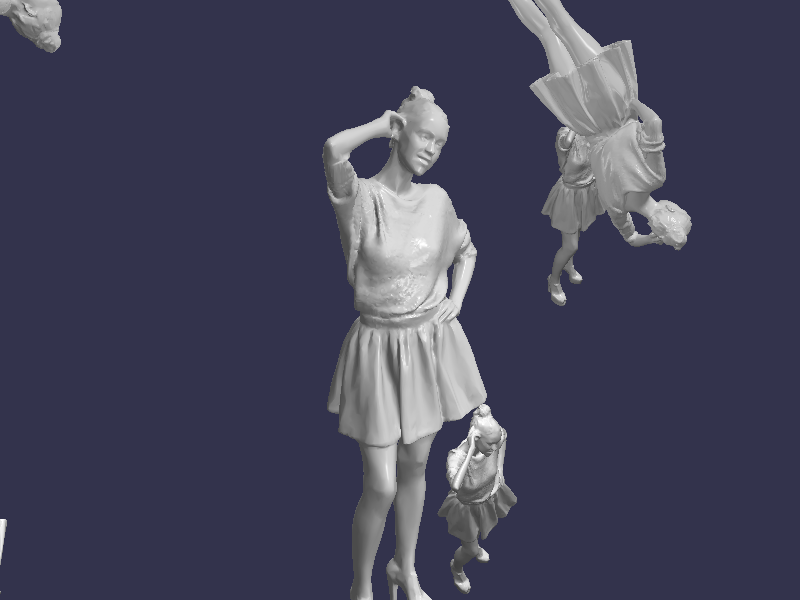
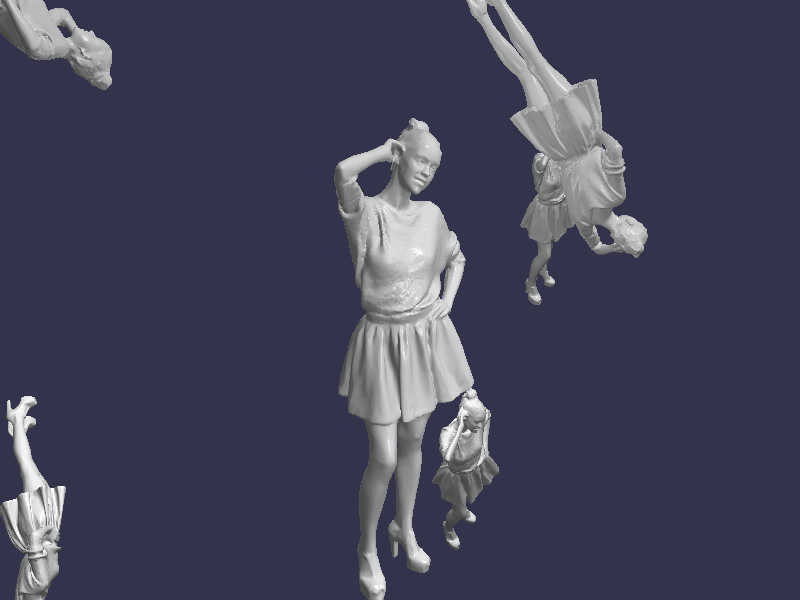
save camera params to xml

diff --git a/Photographer/Camera.cpp b/Photographer/Camera.cpp
@@ -31,6 +31,25 @@ glm::mat4 Camera::getGlProjectionMatrix()
     return glm::perspective(glm::radians(field_of_view_y_), screen_width_ / screen_height_, 0.1f, 100.0f);
 }
 
+glm::mat3 Camera::getCVIntrinsicsMatrix()
+{
+    glm::mat3 intrinsics = glm::mat3(1.0f);  // identity
+
+    //float ratio = screen_width_ / screen_height_;
+
+    // tan(fov_x) = ratio * tan(fov_y)
+    // float pix_focal_x = screen_width_ / (2 * ratio * tan(glm::radians(field_of_view_y_) / 2));
+    // same for x and y, since we assume that apperture ratio matches the output image aspect ratio
+    float pix_focal = screen_height_ / (2 * tan(glm::radians(field_of_view_y_) / 2));
+
+    intrinsics[0][0] = pix_focal;
+    intrinsics[1][1] = pix_focal;
+    intrinsics[0][2] = screen_width_ / 2;
+    intrinsics[1][2] = screen_height_ / 2;
+
+    return intrinsics;
+}
+
 void Camera::setPosition(glm::vec3 pos)
 {
     position_ = pos;
@@ -124,48 +143,61 @@ void Camera::zoom(float delta)
 
 void Camera::saveParamsForOpenCV(const std::string path)
 {
-    std::cout << ID_ << ":" << std::endl;
+    glm::mat4 extrinsic = glm::transpose(getGlViewMatrix()); // transposed because of the colomn-wise storage
+    glm::mat3 intrinsics = getCVIntrinsicsMatrix();
 
-    // get extrinsic matrix -- same as the view -- or inverse?
-    glm::mat4 extrinsic = getGlViewMatrix();
+    // very hardcore approach. But no new dependencies!
+    std::ofstream xml_file;
+    xml_file.open(path + "/" + std::to_string(ID_) + ".xml");
 
-    std::cout << "Extrinsic :" << std::endl;
-    for (int i = 0; i < 4; ++i)
-    {
-        for (int j = 0; j < 4; ++j)
-        {
-            std::cout << extrinsic[j][i] << ", ";
-        }
-        std::cout << std::endl;
-    }
+    xml_file << "<?xml version=\"1.0\"?>" << std::endl
+        << "<opencv_storage>" << std::endl;
 
-    // calc intrinsic matrix
-    glm::mat3 intrinsic = glm::mat3(1.0f);  // identity
-
-    //float ratio = screen_width_ / screen_height_;
-
-    // tan(fov_x) = ratio * tan(fov_y)
-    // float pix_focal_x = screen_width_ / (2 * ratio * tan(glm::radians(field_of_view_y_) / 2));
-    // same for x and y, since we assume that apperture ratio matches the output image aspect ratio
-    float pix_focal = screen_height_ / (2 * tan(glm::radians(field_of_view_y_) / 2));
-
-    intrinsic[0][0] = pix_focal;
-    intrinsic[1][1] = pix_focal;
-    intrinsic[0][2] = screen_width_ / 2;
-    intrinsic[1][2] = screen_height_ / 2;
-
-    std::cout << "Intrinsic :" << std::endl;
+    // extrinsic
+    xml_file << "<CameraMatrix type_id=\"opencv-matrix\">" << std::endl
+        << "\t<rows>3</rows>" << std::endl
+        << "\t<cols>4</cols>" << std::endl
+        << "\t<dt>d</dt>" << std::endl
+        << "\t<data>" << std::endl;
     for (int i = 0; i < 3; ++i)
     {
+        xml_file << "\t\t";
+        for (int j = 0; j < 4; ++j)
+        {
+            xml_file << extrinsic[i][j] << " ";     
+        }
+        xml_file << std::endl;
+    }
+    xml_file << "\t</data>\n</CameraMatrix>" << std::endl;
+    
+    xml_file << "<Intrinsics type_id=\"opencv-matrix\">" << std::endl
+        << "\t<rows>3</rows>" << std::endl
+        << "\t<cols>3</cols>" << std::endl
+        << "\t<dt>d</dt>" << std::endl
+        << "\t<data>" << std::endl;
+
+    for (int i = 0; i < 3; ++i)
+    {
+        xml_file << "\t\t";
         for (int j = 0; j < 3; ++j)
         {
-            std::cout << intrinsic[i][j] << ", ";
+            xml_file << intrinsics[j][i] << " ";
         }
-        std::cout << std::endl;
+        xml_file << std::endl;
     }
+    
+    xml_file << "\t</data>\n</Intrinsics>" << std::endl;
 
+    // No distortion
+    xml_file << "<Distortion type_id=\"opencv-matrix\">" << std::endl
+        << "\t<rows>8</rows>" << std::endl
+        << "\t<cols>1</cols>" << std::endl
+        << "\t<dt>d</dt>" << std::endl
+        << "\t<data> 0. 0. 0. 0. 0. 0. 0. 0.</data>" << std::endl
+        << "</Distortion>" << std::endl;
 
-    // XML-saver?
+    xml_file << "</opencv_storage>" << std::endl;
+    xml_file.close();
 }
 
 void Camera::updateVectorsByRotation_()

diff --git a/Photographer/Camera.h b/Photographer/Camera.h
@@ -4,7 +4,9 @@
 // It also holds the projection matrix
 // Move rotations to something better
 
+#include <fstream>
 #include <iostream>
+#include <string>
 
 #include <glad/glad.h>
 #include <glm/glm.hpp>
@@ -34,7 +36,7 @@ public:
     
     glm::mat4 getGlViewMatrix();
     glm::mat4 getGlProjectionMatrix();
-    //glm::mat4 GetCVProjectionMatrix();
+    glm::mat3 getCVIntrinsicsMatrix();
 
     // allows to set pre-defined id
     void setID(unsigned int id) { ID_ = id; };
@@ -51,7 +53,7 @@ public:
 
 private:
     static unsigned int avalible_camera_id;
-    static constexpr float default_fov_ = 30.0f;
+    static constexpr float default_fov_ = 35.0f;
     // manipulation
     static constexpr float rotation_sensitivity_ = 0.05f;
     static constexpr float zoom_sensitivity_ = 0.1f;
